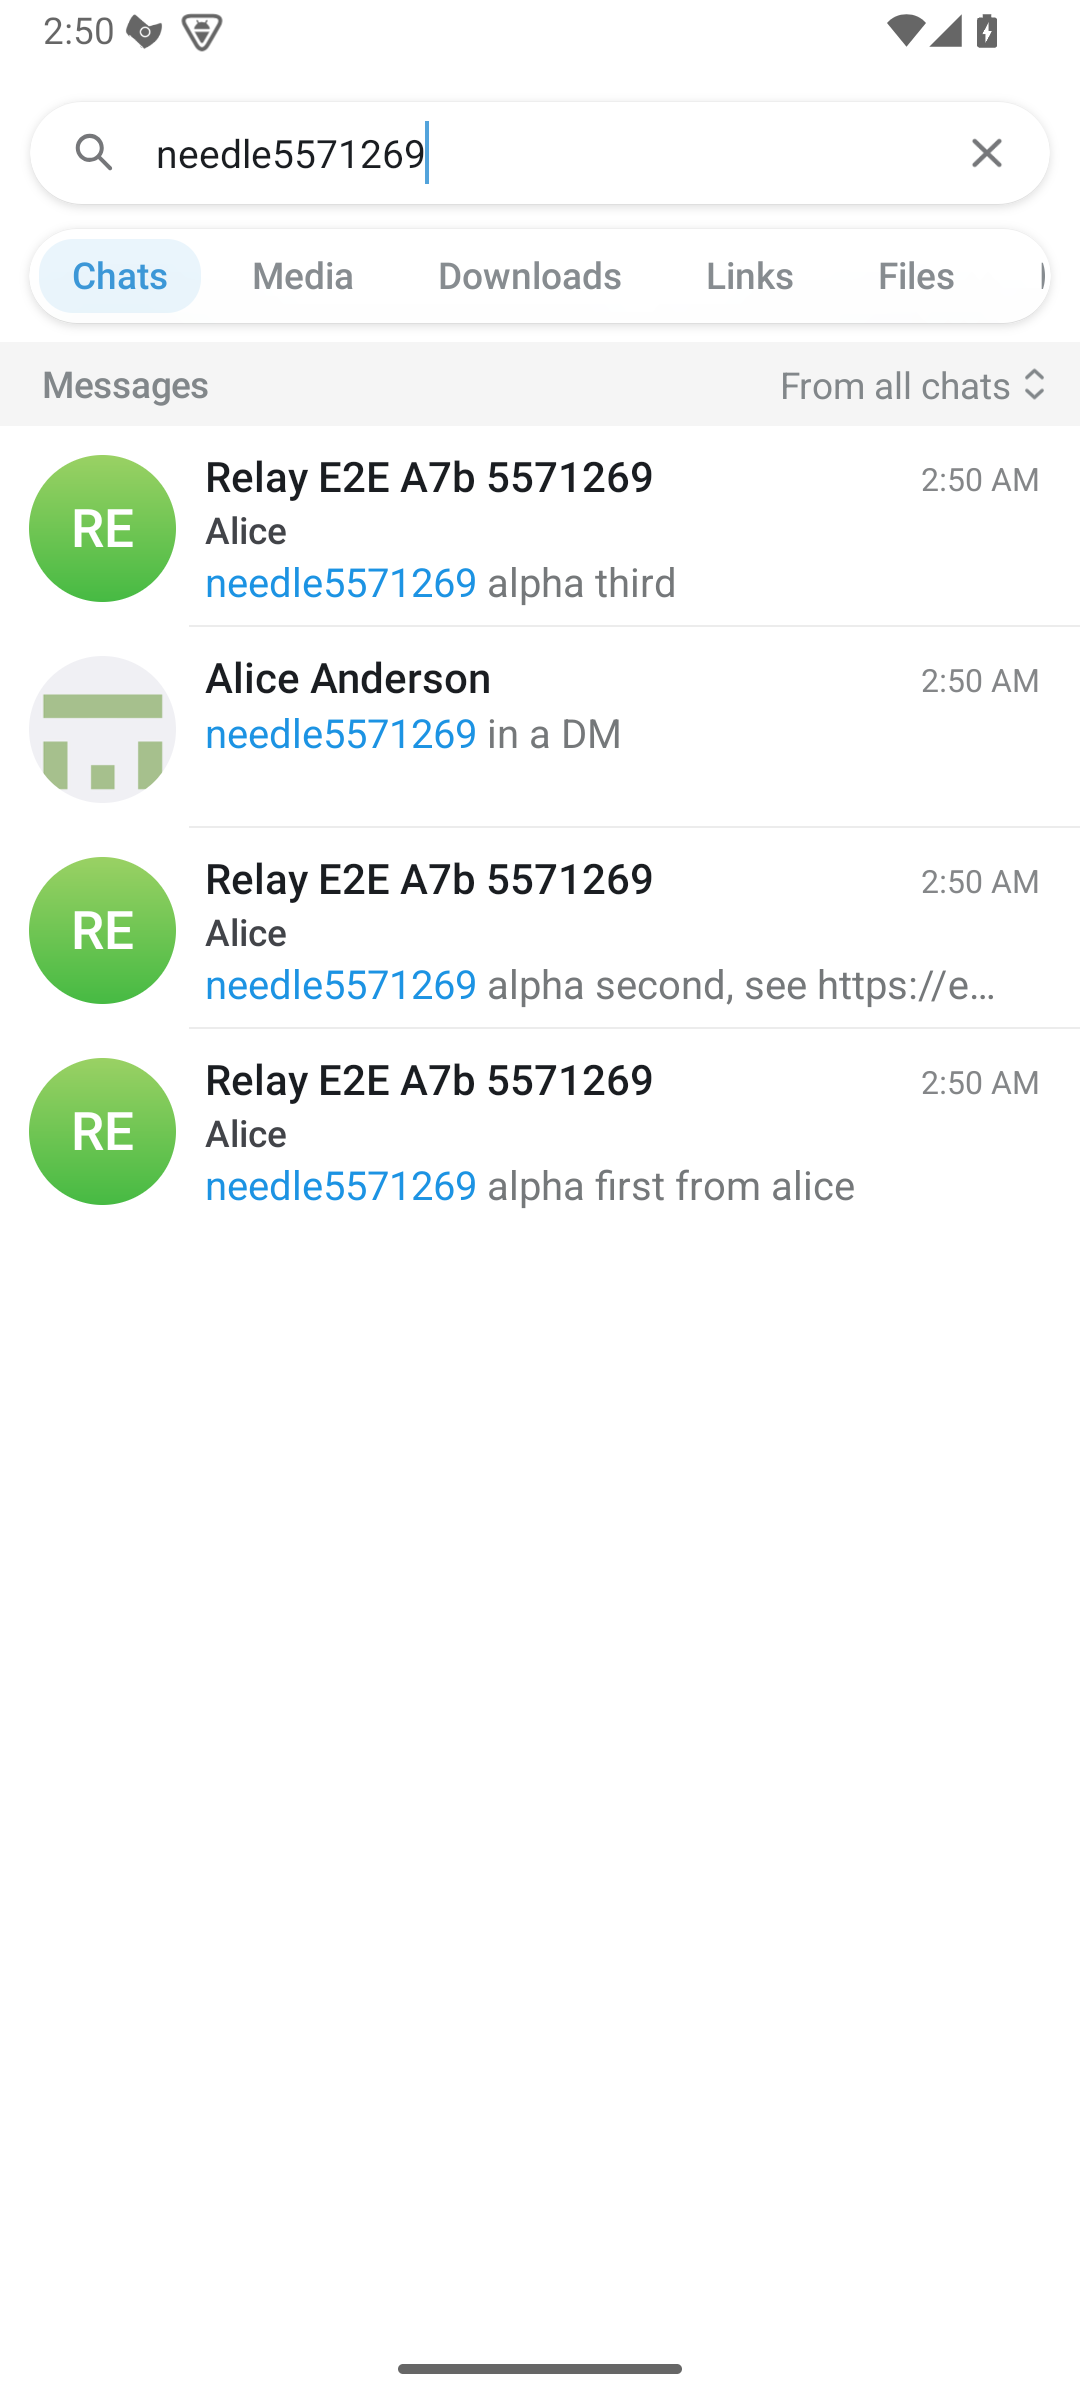
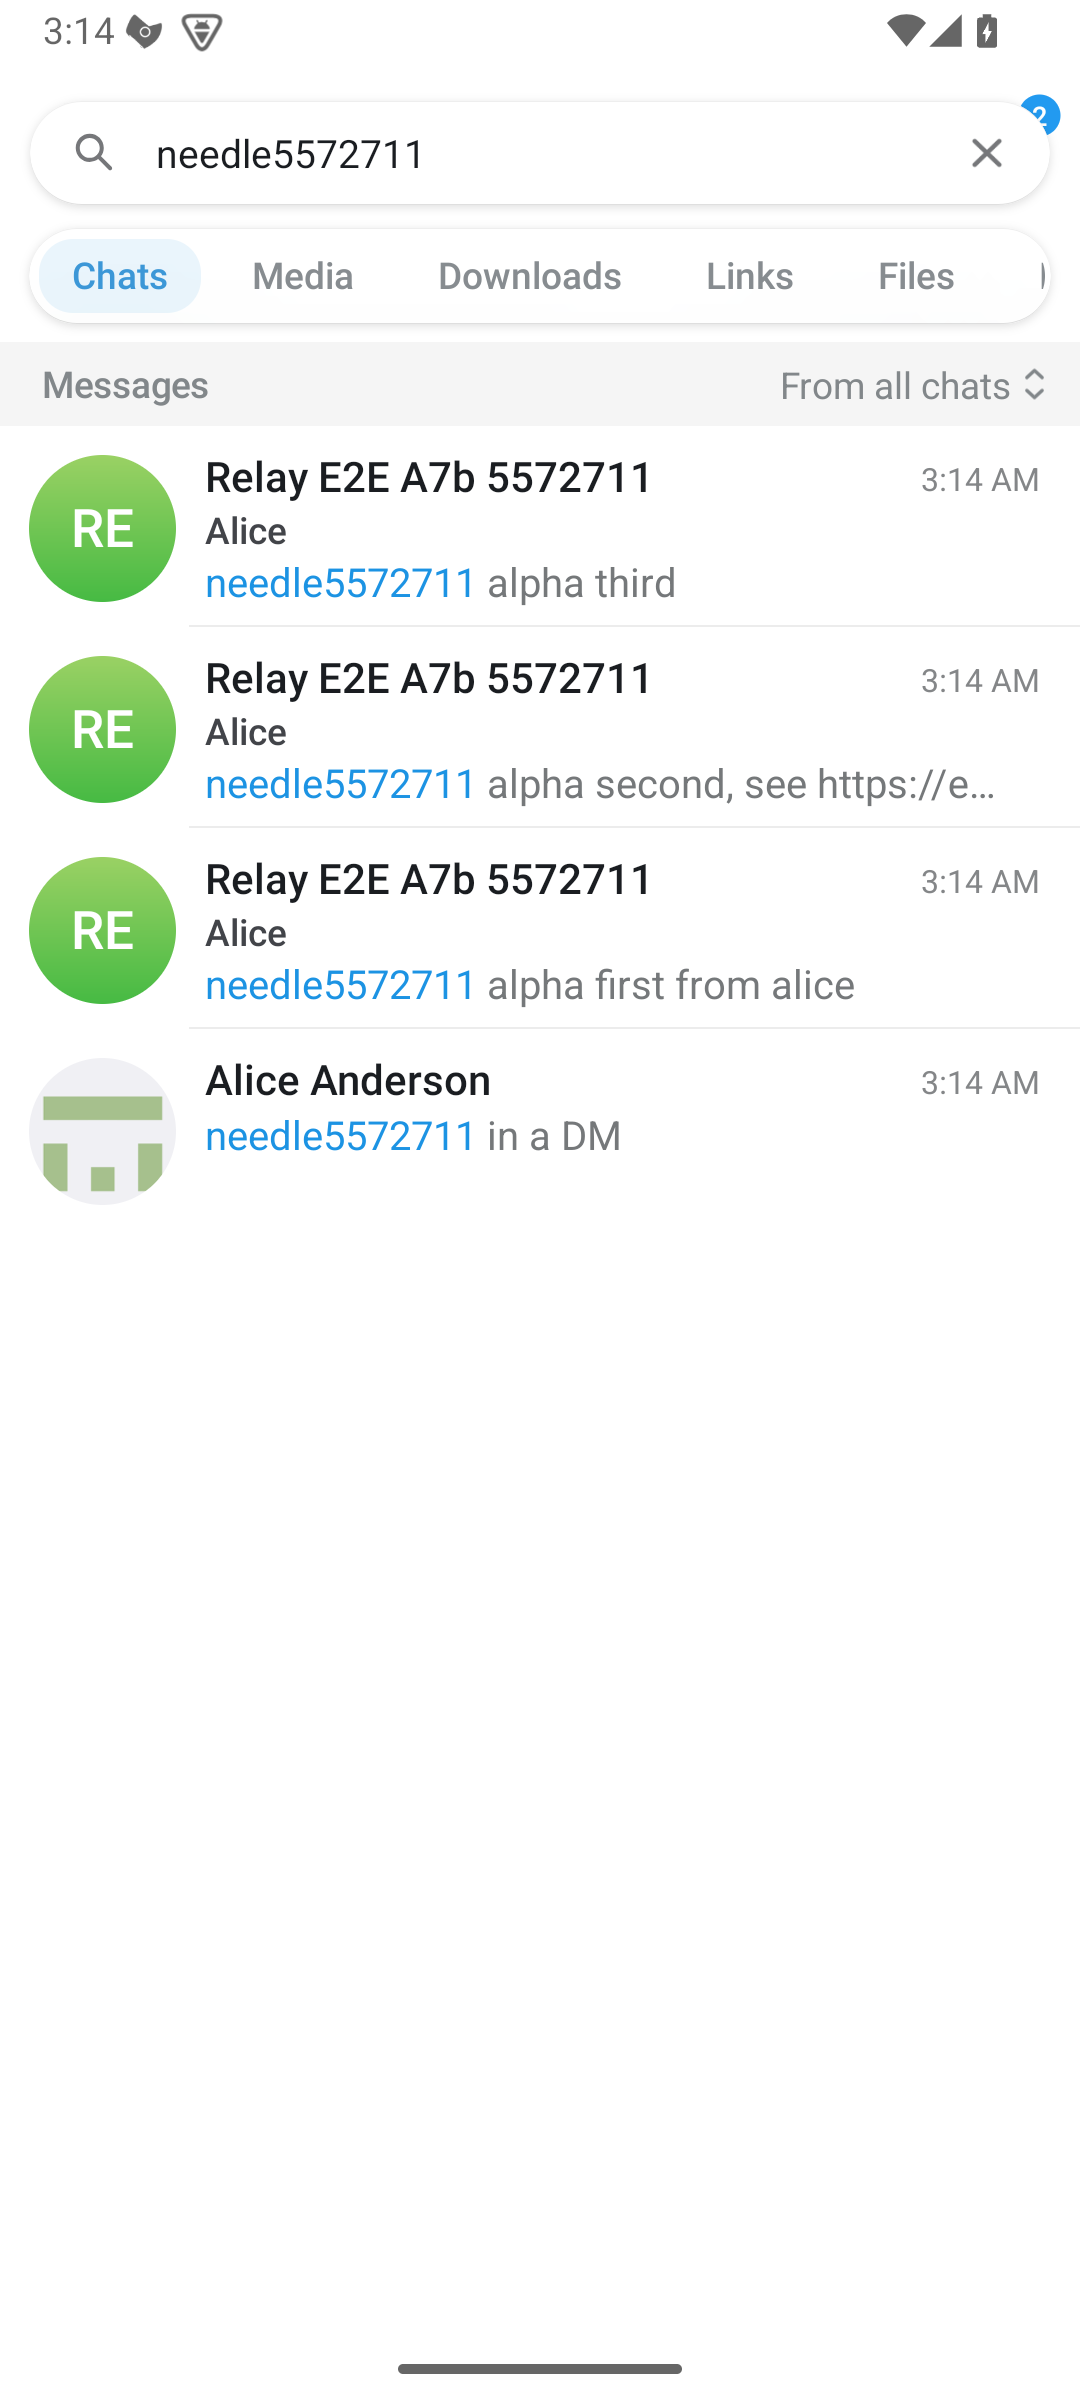
A7b: searches leave archived channels out (as iOS), except a search inside one
Recent Mentions lost older posts to archived test channels' mentions (100 posts per team page).
e2e: REST comparison with the same scope; mentions compare thread roots under collapsed threads.

diff --git a/TMessagesProj/src/main/java/org/telegram/relay/bridge/RelaySearch.java b/TMessagesProj/src/main/java/org/telegram/relay/bridge/RelaySearch.java
@@ -365,9 +365,14 @@ final class RelaySearch {
 
     /** Posts found by a post search in the given teams (merged by id, newest first). */
     List<Post> searchPosts(Collection<String> teamIds, String terms, boolean isOr, Found into) throws MattermostException {
+        return searchPosts(teamIds, terms, isOr, false, into);
+    }
+
+    /** {@code includeArchived}: a search inside an archived channel (other searches leave archived channels out, as iOS). */
+    List<Post> searchPosts(Collection<String> teamIds, String terms, boolean isOr, boolean includeArchived, Found into) throws MattermostException {
         Map<String, Post> byId = new LinkedHashMap<>();
         for (String teamId : teamIds) {
-            PostList list = MattermostDirectory.searchPosts(account.client, teamId, terms, isOr, timeZoneOffset(), 0, SEARCH_PAGE);
+            PostList list = MattermostDirectory.searchPosts(account.client, teamId, terms, isOr, includeArchived, timeZoneOffset(), 0, SEARCH_PAGE);
             List<Post> page = list.getOrderedPosts();
             if (page.size() >= SEARCH_PAGE && into != null) {
                 into.more = true;
@@ -483,7 +488,7 @@ final class RelaySearch {
                     break;
                 }
                 String teamId = teamOf(channel);
-                posts = teamId == null ? new ArrayList<Post>() : searchPosts(Collections.singletonList(teamId), terms(q, channel.id, fromUsername, minDate, maxDate), false, null);
+                posts = teamId == null ? new ArrayList<Post>() : searchPosts(Collections.singletonList(teamId), terms(q, channel.id, fromUsername, minDate, maxDate), false, channel.isArchived(), null);
                 break;
             }
             case MediaDataController.MEDIA_URL: {

diff --git a/relay-mattermost/src/main/java/org/telegram/relay/mattermost/MattermostDirectory.java b/relay-mattermost/src/main/java/org/telegram/relay/mattermost/MattermostDirectory.java
@@ -61,10 +61,15 @@ public final class MattermostDirectory {
      * {@code before:/after:/on:}.
      */
     public static PostSearchResults searchPosts(MattermostClient client, String teamId, String terms, boolean isOrSearch, int timeZoneOffset, int page, int perPage) throws MattermostException {
+        return searchPosts(client, teamId, terms, isOrSearch, false, timeZoneOffset, page, perPage);
+    }
+
+    /** {@link #searchPosts} that also searches archived channels ({@code includeDeletedChannels}). */
+    public static PostSearchResults searchPosts(MattermostClient client, String teamId, String terms, boolean isOrSearch, boolean includeDeletedChannels, int timeZoneOffset, int page, int perPage) throws MattermostException {
         JsonObject body = Json.object(
                 "terms", terms,
                 "is_or_search", isOrSearch,
-                "include_deleted_channels", true,
+                "include_deleted_channels", includeDeletedChannels,
                 "time_zone_offset", timeZoneOffset,
                 "page", page,
                 "per_page", perPage);

diff --git a/Tools/relay-e2e/test_a7b_find_members.py b/Tools/relay-e2e/test_a7b_find_members.py
@@ -76,7 +76,7 @@ class Rest:
 
     def search(self, team_id, terms, is_or=False):
         res = self.call("POST", "/teams/%s/posts/search" % team_id, {"terms": terms, "is_or_search": is_or, "page": 0, "per_page": 100,
-                                                                     "time_zone_offset": tz_offset(), "include_deleted_channels": True})
+                                                                     "time_zone_offset": tz_offset(), "include_deleted_channels": False})
         return [p for p in res["order"] if not res["posts"][p].get("type", "").startswith("system_")]
 
     def channel_by_name(self, team_id, name):
